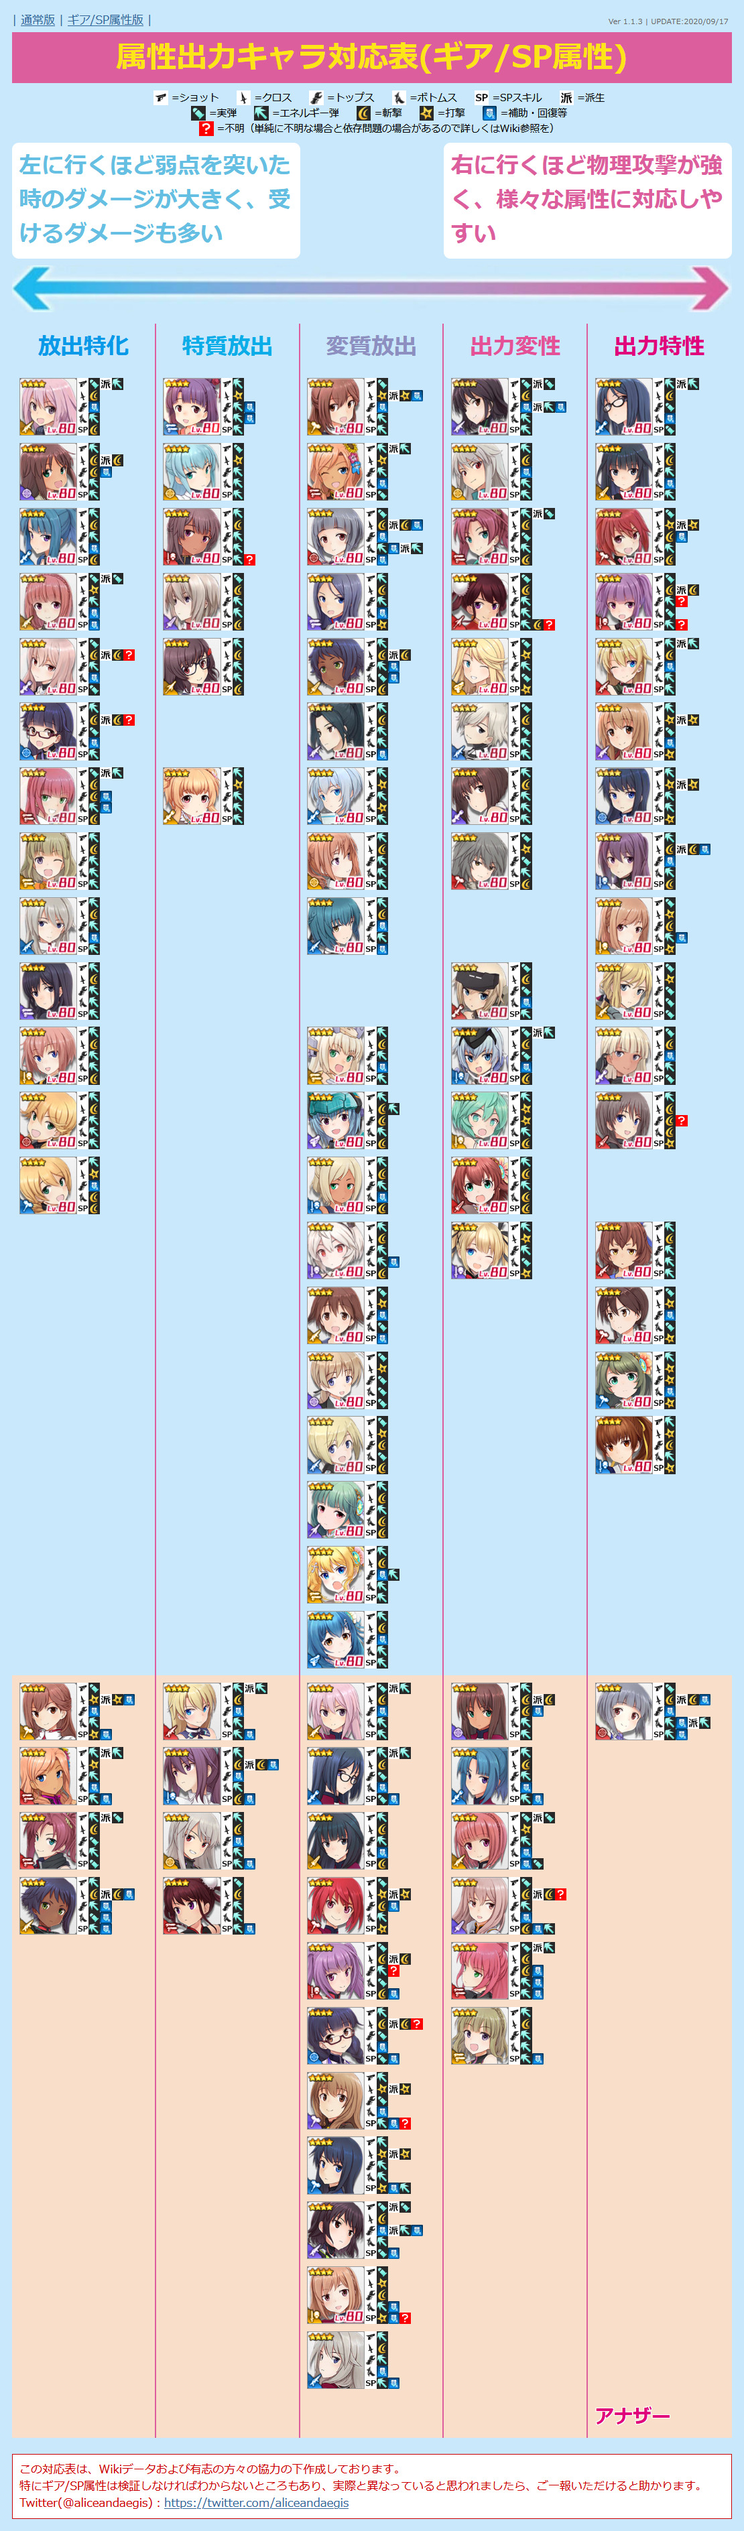
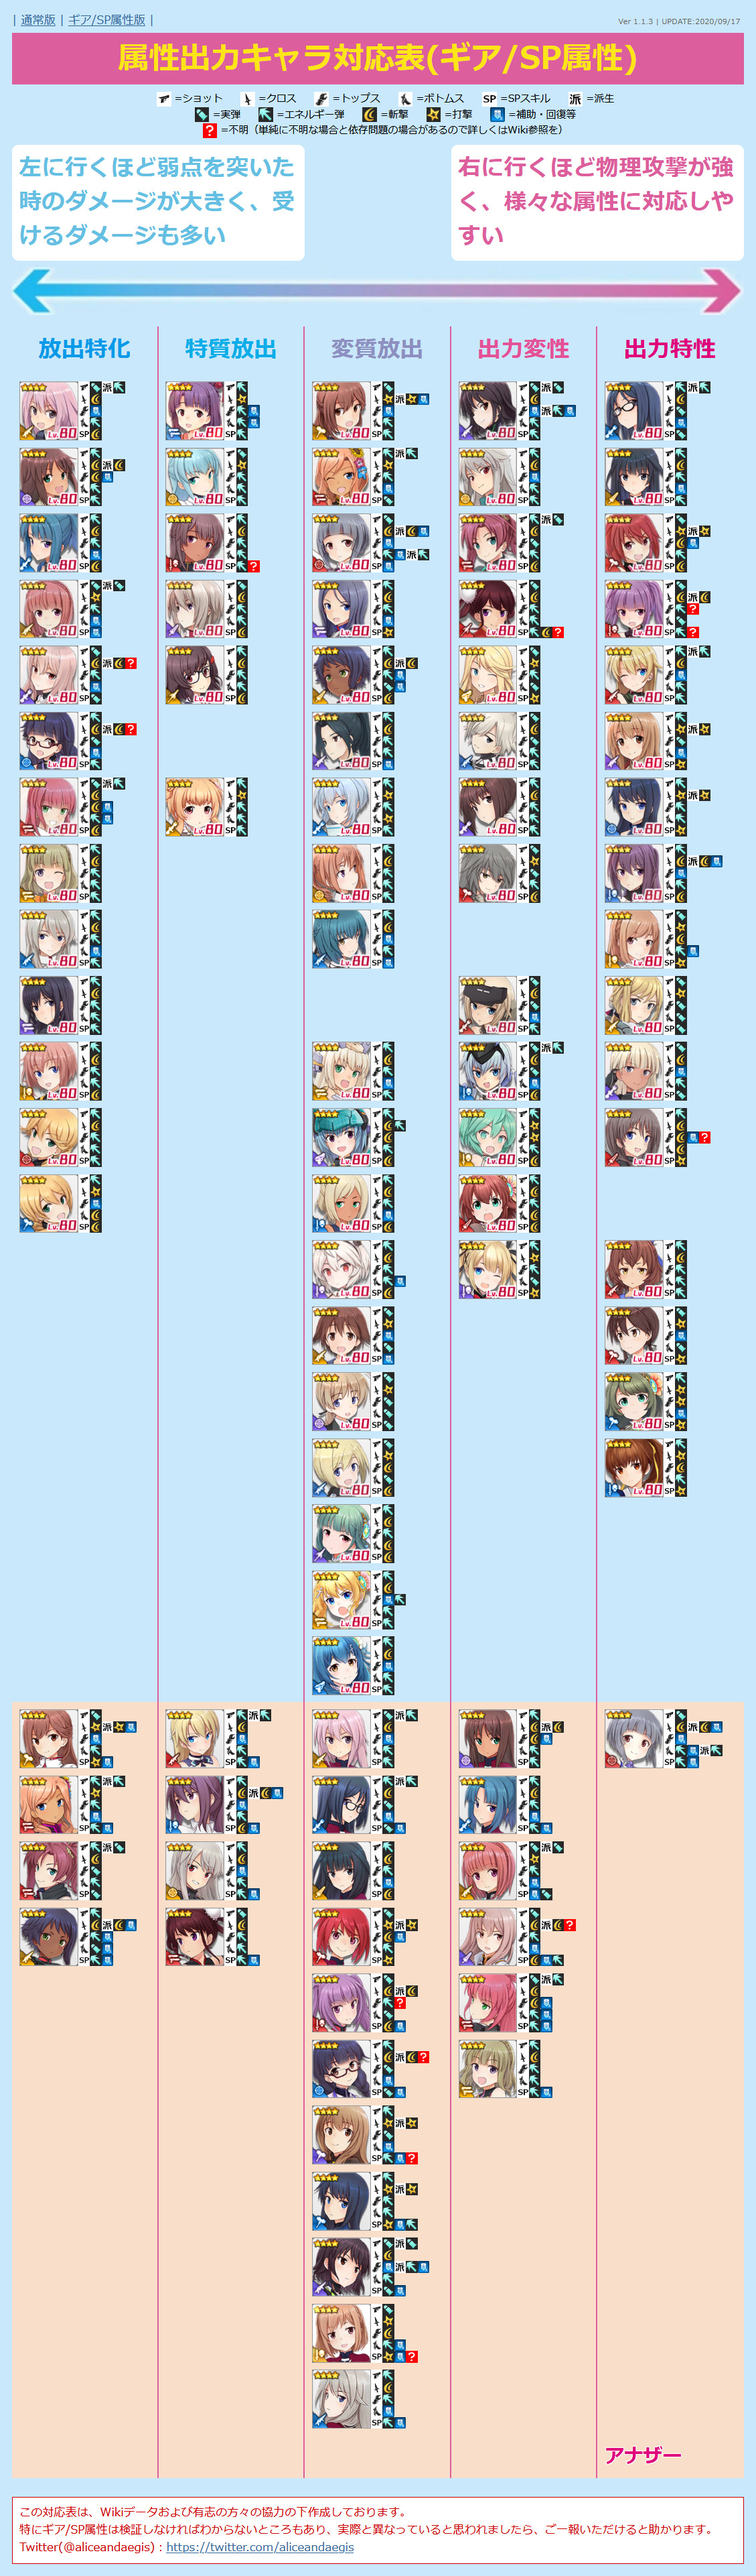
UPDATE chara data
・九炉鉄 悠都のトップスに補助属性追加
・州天頃 椎奈/玉響の画像を更新

diff --git a/alice.html b/alice.html
@@ -1050,7 +1050,7 @@
       "name": "九炉鉄 悠都",
       "equip1": "2",
       "equip2": "3",
-      "equip3": "3?",
+      "equip3": "35?",
       "equip4": "3",
       "sp": "4",
       "attr": "3",
